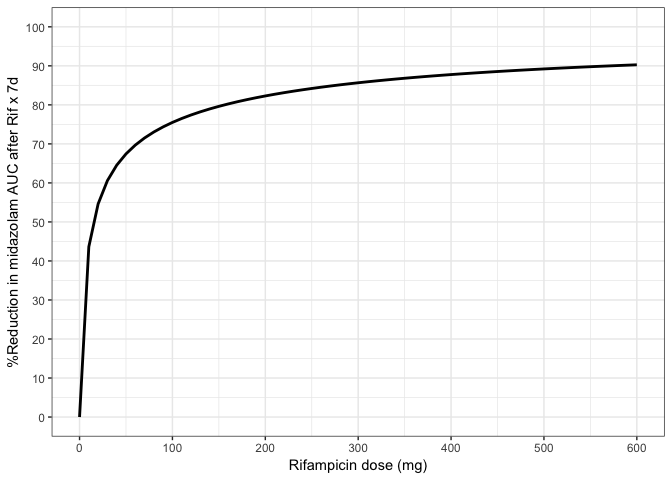
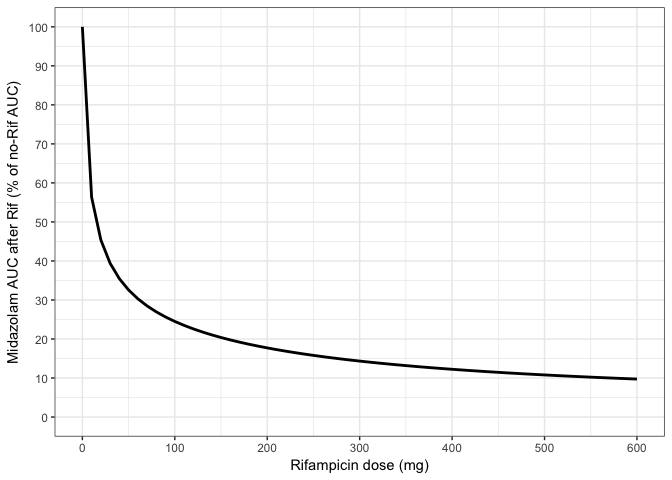
rif ddi

diff --git a/docs/rifampin_midazolam_ddi.md b/docs/rifampin_midazolam_ddi.md
@@ -218,7 +218,7 @@ summ <-
   group_by(rif,mid) %>%
   summarise(auc = auc_partial(time,Cmidazolam)) %>%
   ungroup() %>%
-  mutate(pAUC = 100*(1-auc/first(auc)))
+  mutate(pAUC = 100*(auc/first(auc)))
 
 summ
 ```
@@ -226,23 +226,23 @@ summ
     . # A tibble: 61 x 4
     .      rif   mid   auc  pAUC
     .    <dbl> <dbl> <dbl> <dbl>
-    .  1    0.    3. 24.7    0. 
-    .  2   10.    3. 13.9   43.7
-    .  3   20.    3. 11.2   54.6
-    .  4   30.    3.  9.74  60.6
-    .  5   40.    3.  8.76  64.5
-    .  6   50.    3.  8.05  67.4
-    .  7   60.    3.  7.49  69.7
-    .  8   70.    3.  7.04  71.5
-    .  9   80.    3.  6.66  73.0
-    . 10   90.    3.  6.33  74.4
+    .  1    0.    3. 24.7  100. 
+    .  2   10.    3. 13.9   56.3
+    .  3   20.    3. 11.2   45.4
+    .  4   30.    3.  9.74  39.4
+    .  5   40.    3.  8.76  35.5
+    .  6   50.    3.  8.05  32.6
+    .  7   60.    3.  7.49  30.3
+    .  8   70.    3.  7.04  28.5
+    .  9   80.    3.  6.66  27.0
+    . 10   90.    3.  6.33  25.6
     . # ... with 51 more rows
 
 ``` r
 ggplot(summ, aes(rif,pAUC)) + 
   geom_line(lwd = 1) + 
   scale_y_continuous(breaks = seq(0,100,10), limits = c(0,100),
-                     name = "%Reduction in midazolam AUC after Rif x 7d") + 
+                     name = "Midazolam AUC after Rif (% of no-Rif AUC)") + 
   scale_x_continuous(name = "Rifampicin dose (mg)", 
                      breaks = seq(0,600,100)) + theme_bw()
 ```
